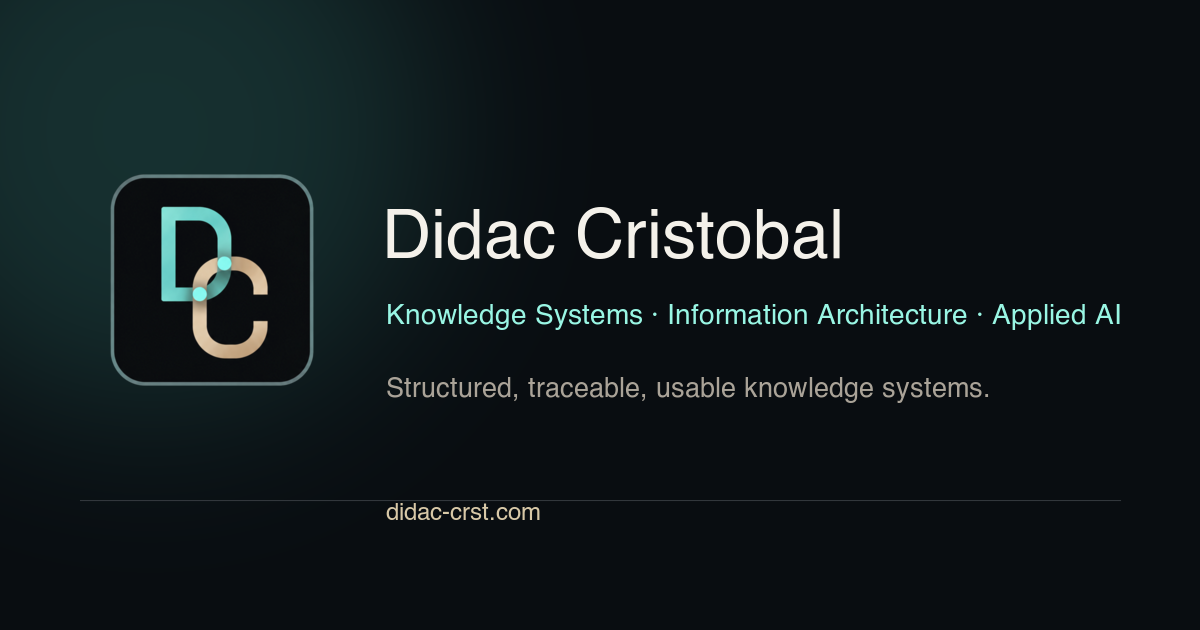
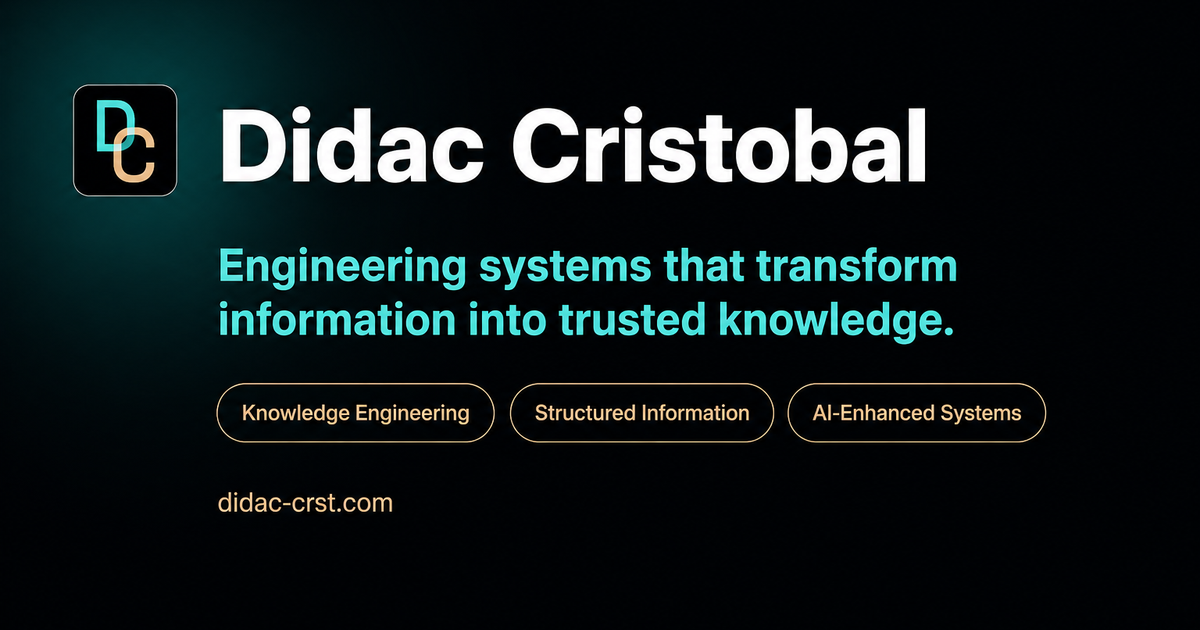
Refine brand positioning and header

Changed region(s): [[0.0617, 0.0, 0.9558, 0.7238], [0.1542, 0.7841, 0.4625, 0.8444]]

diff --git a/src/projects.ts b/src/projects.ts
@@ -20,7 +20,7 @@ export const projects: Project[] = [
     description:
       "Document intelligence and knowledge architecture.",
     summary:
-      "An open-source exploration of turning documents and metadata into structured, traceable knowledge while combining deterministic processing with AI only where it adds value.",
+      "An open-source exploration of turning documents and metadata into trusted knowledge while combining deterministic processing with AI only where it adds value.",
     status: "active",
     statusLabel: "Open source · Early development"
   }

diff --git a/src/site.config.ts b/src/site.config.ts
@@ -4,7 +4,7 @@ export const SITE = {
   domain: "https://didac-crst.com",
   title: "Didac Cristobal",
   description:
-    "Knowledge systems, information architecture, and applied AI for turning fragmented information into structured, traceable, usable knowledge.",
+    "Engineering systems that transform information into trusted knowledge.",
   github: "https://github.com/didac-crst",
   linkedin: "https://linkedin.com/in/didac-crst",
   repository: "https://github.com/didac-crst/didac-crst.com",
